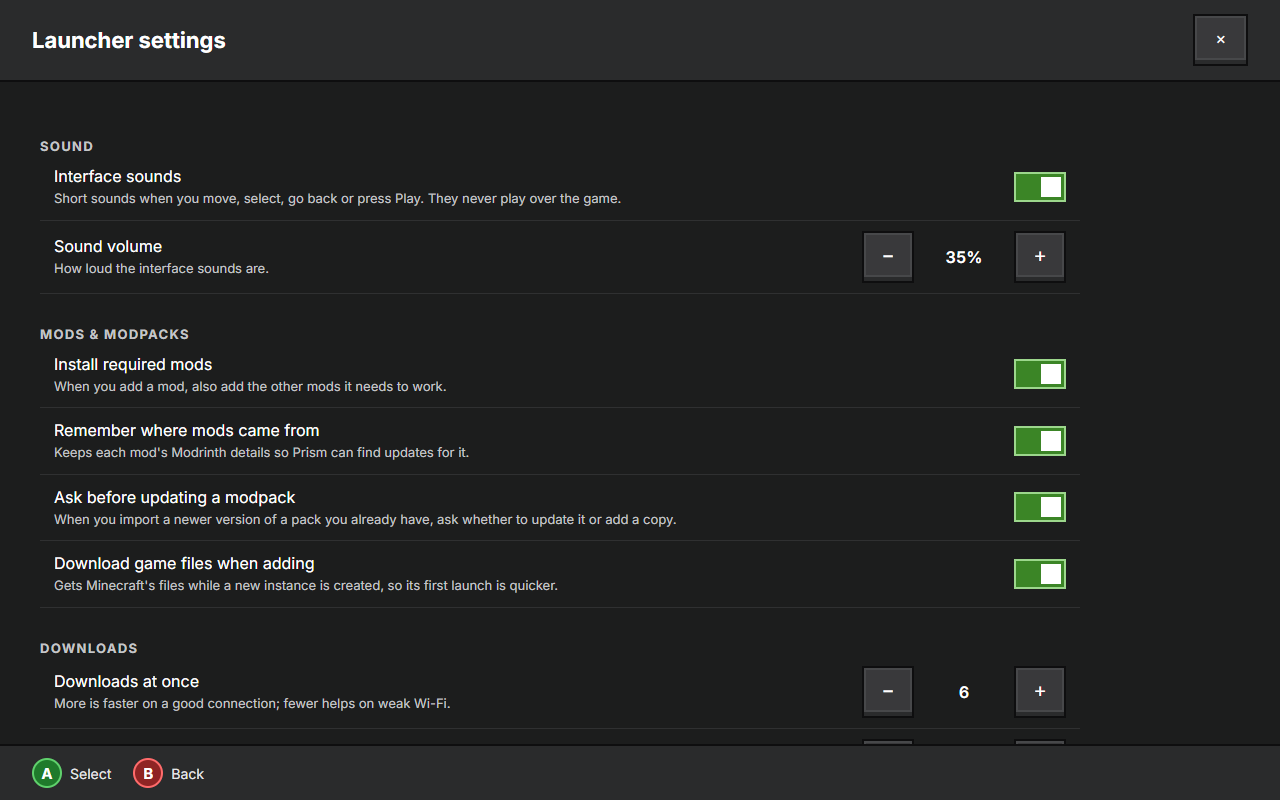
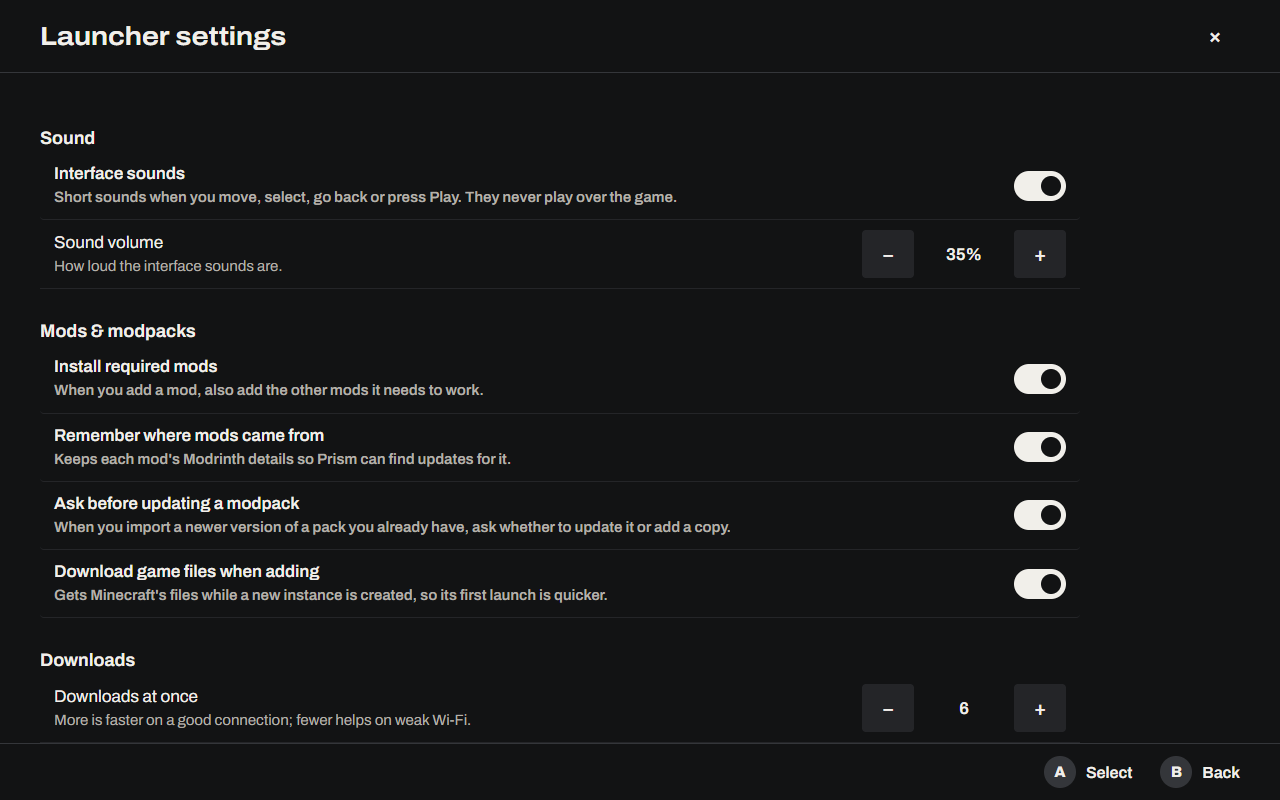
Redesign follow-ups: device check picks without playing, README screenshots
- ui-launch-check: tapping the already-picked pack plays it now, so the
  check only taps an unpicked card; a running game is the in-game banner.
- launch-failure-smoke reads the new failure heading.
- Settings hint lines at 15 px; README screenshots show the new design.

(cherry picked from commit 37290ce29120af991bb28a7c5ee10451e12f7472)

diff --git a/console-ui/src/NativeWorkflow.vue b/console-ui/src/NativeWorkflow.vue
@@ -35,7 +35,7 @@ defineExpose({ close: () => action({ control: props.flow.id, op: 'close' }) })
 .setting-toggle, .setting-select { display: flex; align-items: center; justify-content: space-between; gap: 24px; width: 100%; text-align: left; border-image: none !important; border: 0; border-bottom: 1px solid var(--pc-raised); background: transparent; padding: 12px 14px; min-height: 64px; }
 .setting-toggle:hover:not(:disabled), .setting-select:hover:not(:disabled) { background: #252627; }
 .setting-text { display: grid; gap: 4px; min-width: 0; }
-.setting-text small { color: var(--ore-muted); font-size: 13px; line-height: 1.35; display: -webkit-box; -webkit-line-clamp: 2; -webkit-box-orient: vertical; overflow: hidden; }
+.setting-text small { color: var(--ore-muted); font-size: 15px; line-height: 1.35; display: -webkit-box; -webkit-line-clamp: 2; -webkit-box-orient: vertical; overflow: hidden; }
 .switch { flex: none; position: relative; width: 52px; height: 30px; border-radius: 15px; background: var(--pc-surface); box-shadow: inset 0 0 0 2px var(--pc-line); }
 .switch > span { position: absolute; top: 5px; left: 5px; width: 20px; height: 20px; border-radius: 50%; background: var(--pc-text-2); transition: transform 120ms ease, background-color 120ms ease; }
 [aria-checked=true] > .switch { background: var(--pc-text); box-shadow: none; }

diff --git a/console-ui/artifacts/ui-launch-check.py b/console-ui/artifacts/ui-launch-check.py
@@ -86,7 +86,8 @@ time.sleep(2)
 environment_report()
 if js("!!document.querySelector('[role=dialog] #dialog-title')?.textContent.includes('Welcome')"):
     print('Onboarding shown; keeping existing settings:', click('Keep current settings')); time.sleep(1)
-print('Selected CrazyCraft card:', js("(() => { const c = [...document.querySelectorAll('.instance-card')].find(c => c.textContent.includes('CrazyCraft')); c?.click(); return !!c })()"))
+# Picking a pack is one tap; a tap on the pack that is already picked would play it.
+print('Selected CrazyCraft card:', js("(() => { const c = [...document.querySelectorAll('.instance-card')].find(c => c.textContent.includes('CrazyCraft')); if (c && !c.classList.contains('selected')) c.click(); return !!c })()"))
 time.sleep(1)
 ui_shot('1-library')
 pad = VirtualPad()
@@ -100,7 +101,7 @@ seen, started, last_shot = [], time.time(), 0
 result = 'timeout'
 while time.time() - started < 900:
     state = overlay()
-    running = js("document.querySelector('[data-action=stop-game]') !== null")
+    running = js("document.querySelector('.running-banner') !== null")
     prompt = js("document.querySelector('.dialog-compact #dialog-title')?.textContent || null")
     if prompt == 'Offline player name' and 'offline' not in seen:
         # Microsoft/Mojang sign-in unreachable: Prism offers offline play. Answer as a player would and continue.

diff --git a/console-ui/launch-failure-smoke.py b/console-ui/launch-failure-smoke.py
@@ -81,7 +81,7 @@ wait("document.querySelector('.bp-container')?.dataset.connected === 'true'", 'p
 account = wait("document.querySelector('.account-chip > span:last-child')?.textContent.trim()", 'account chip')
 assert account == 'SmokePlayer', f'Refusing to launch with a real account ({account})'
 view = """(() => { const r = document.querySelector('.launch-overlay [role=alert][data-reason]'); if (!r) return null; const o = r.closest('.launch-overlay');
-  return { reason: r.dataset.reason, text: r.textContent.trim(), eyebrow: o.querySelector('.eyebrow')?.textContent.trim(), actions: [...o.querySelectorAll('[data-action]')].map(b => b.dataset.action) } })()"""
+  return { reason: r.dataset.reason, text: r.textContent.trim(), eyebrow: o.querySelector('.failed-step')?.textContent.trim(), actions: [...o.querySelectorAll('[data-action]')].map(b => b.dataset.action) } })()"""
 
 def play_until_failure():
     assert click('[data-action=play]'), 'Play is not available'
